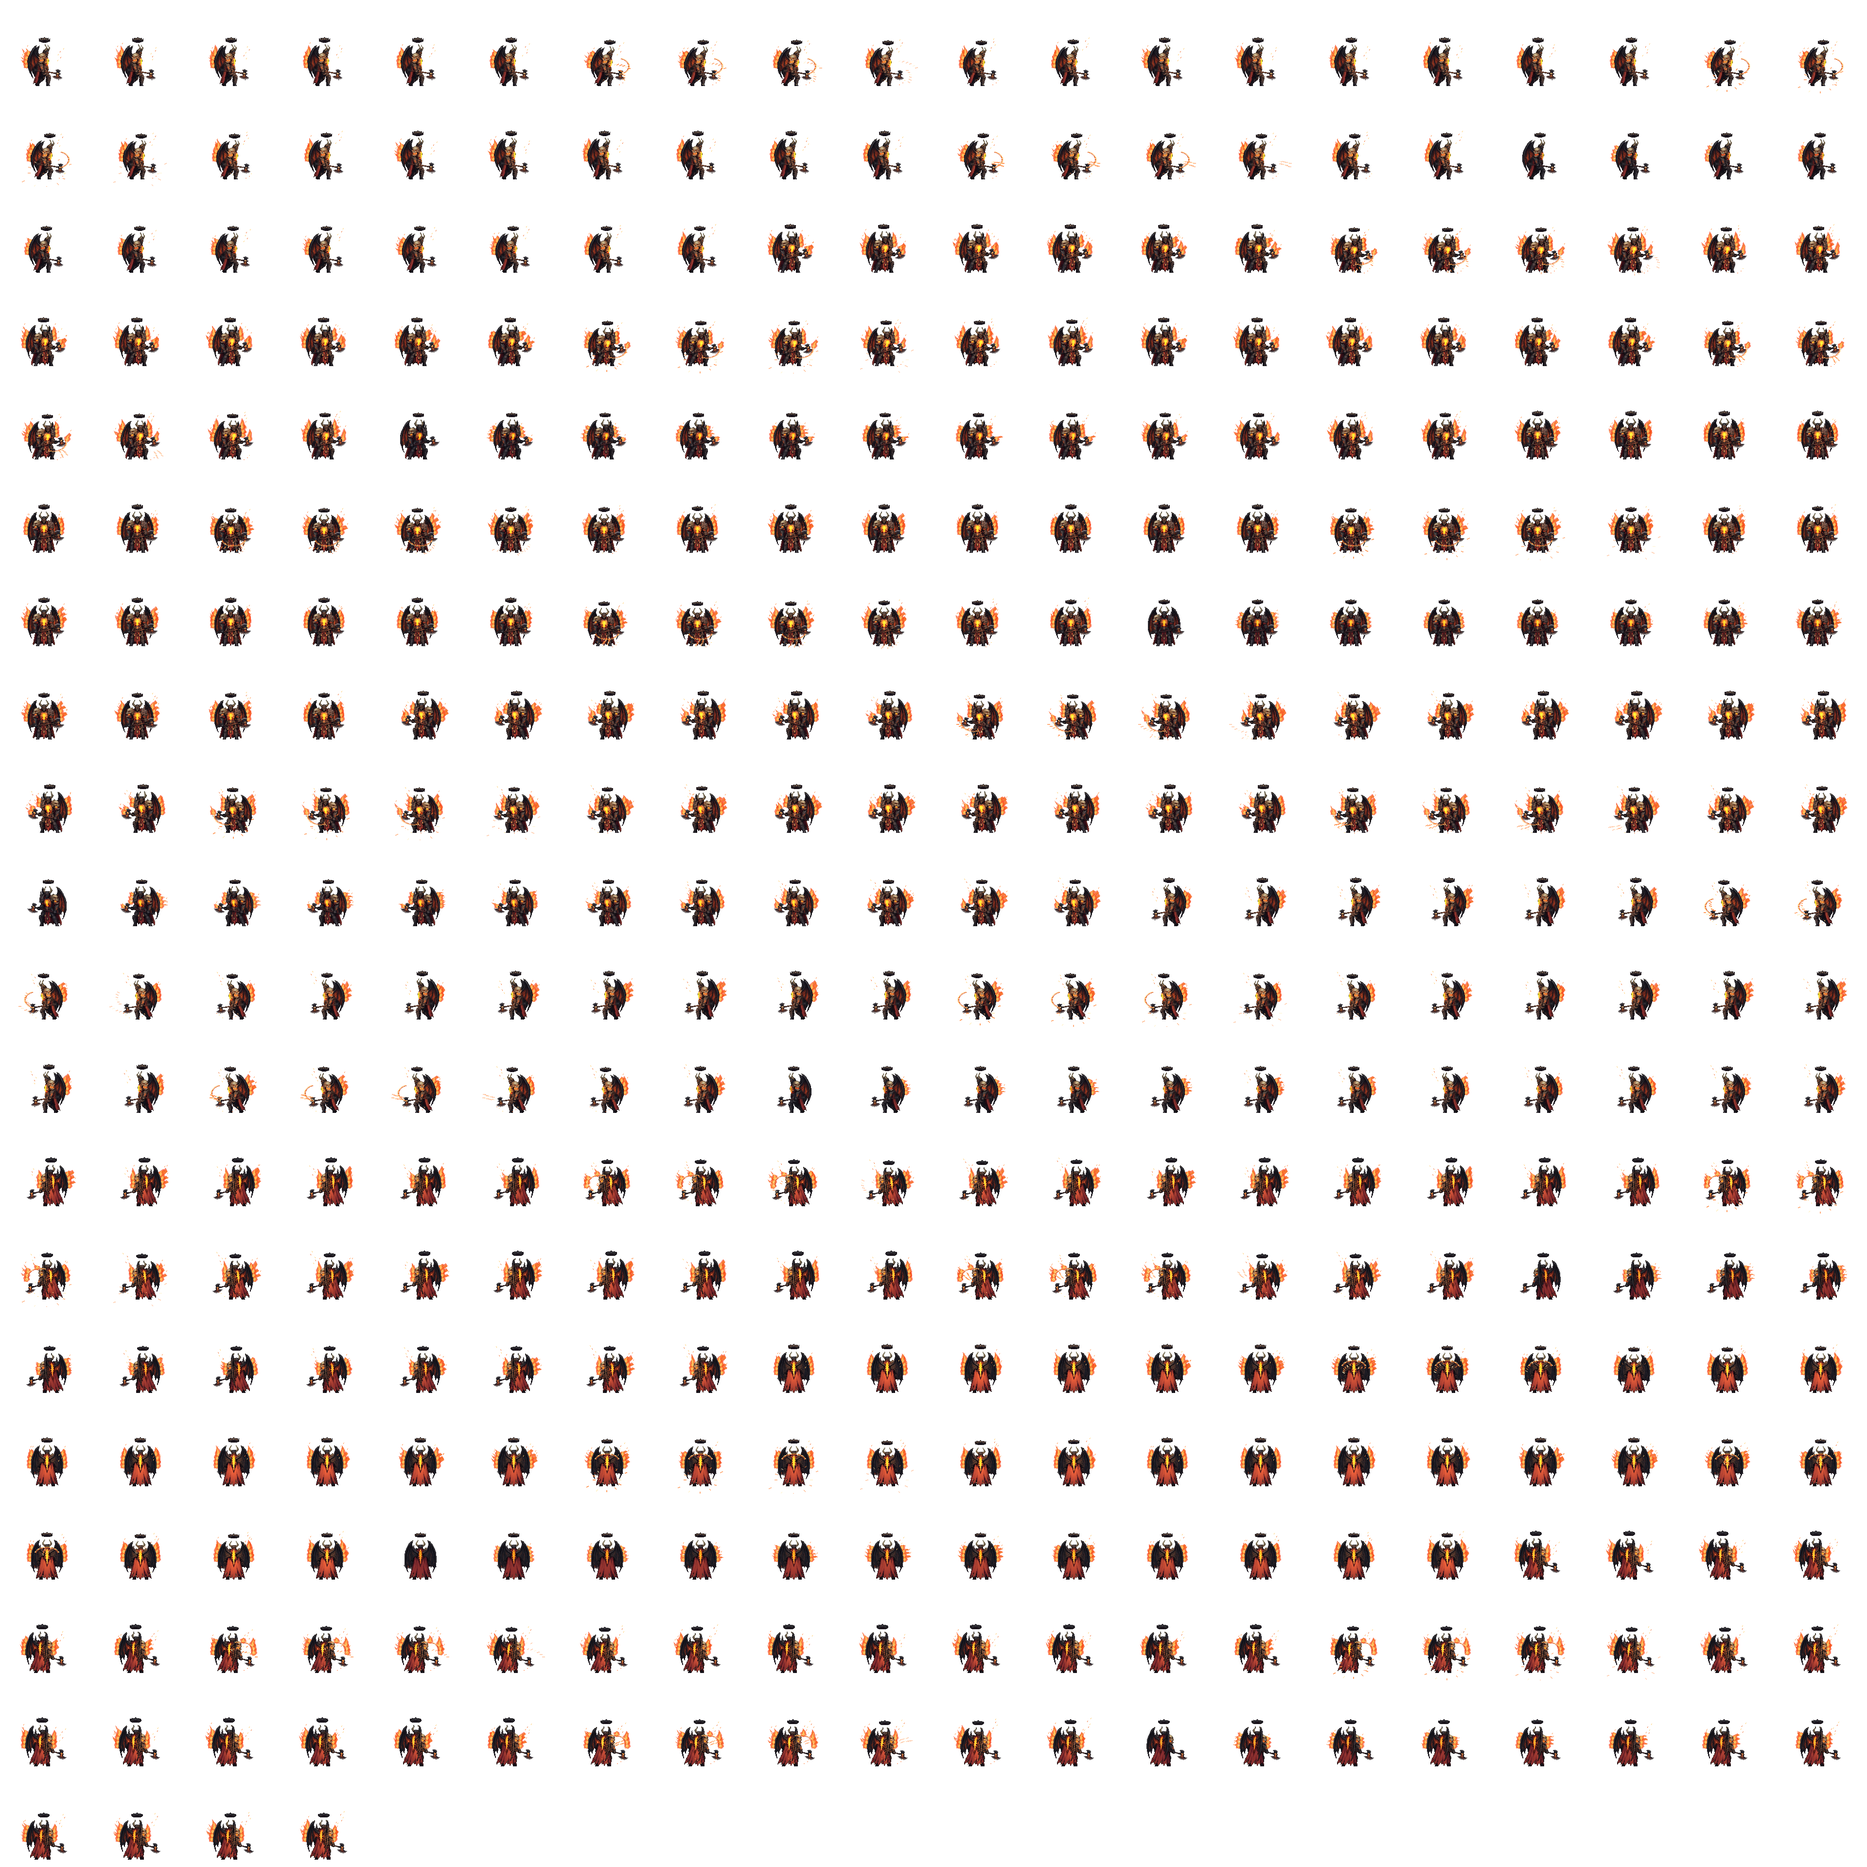
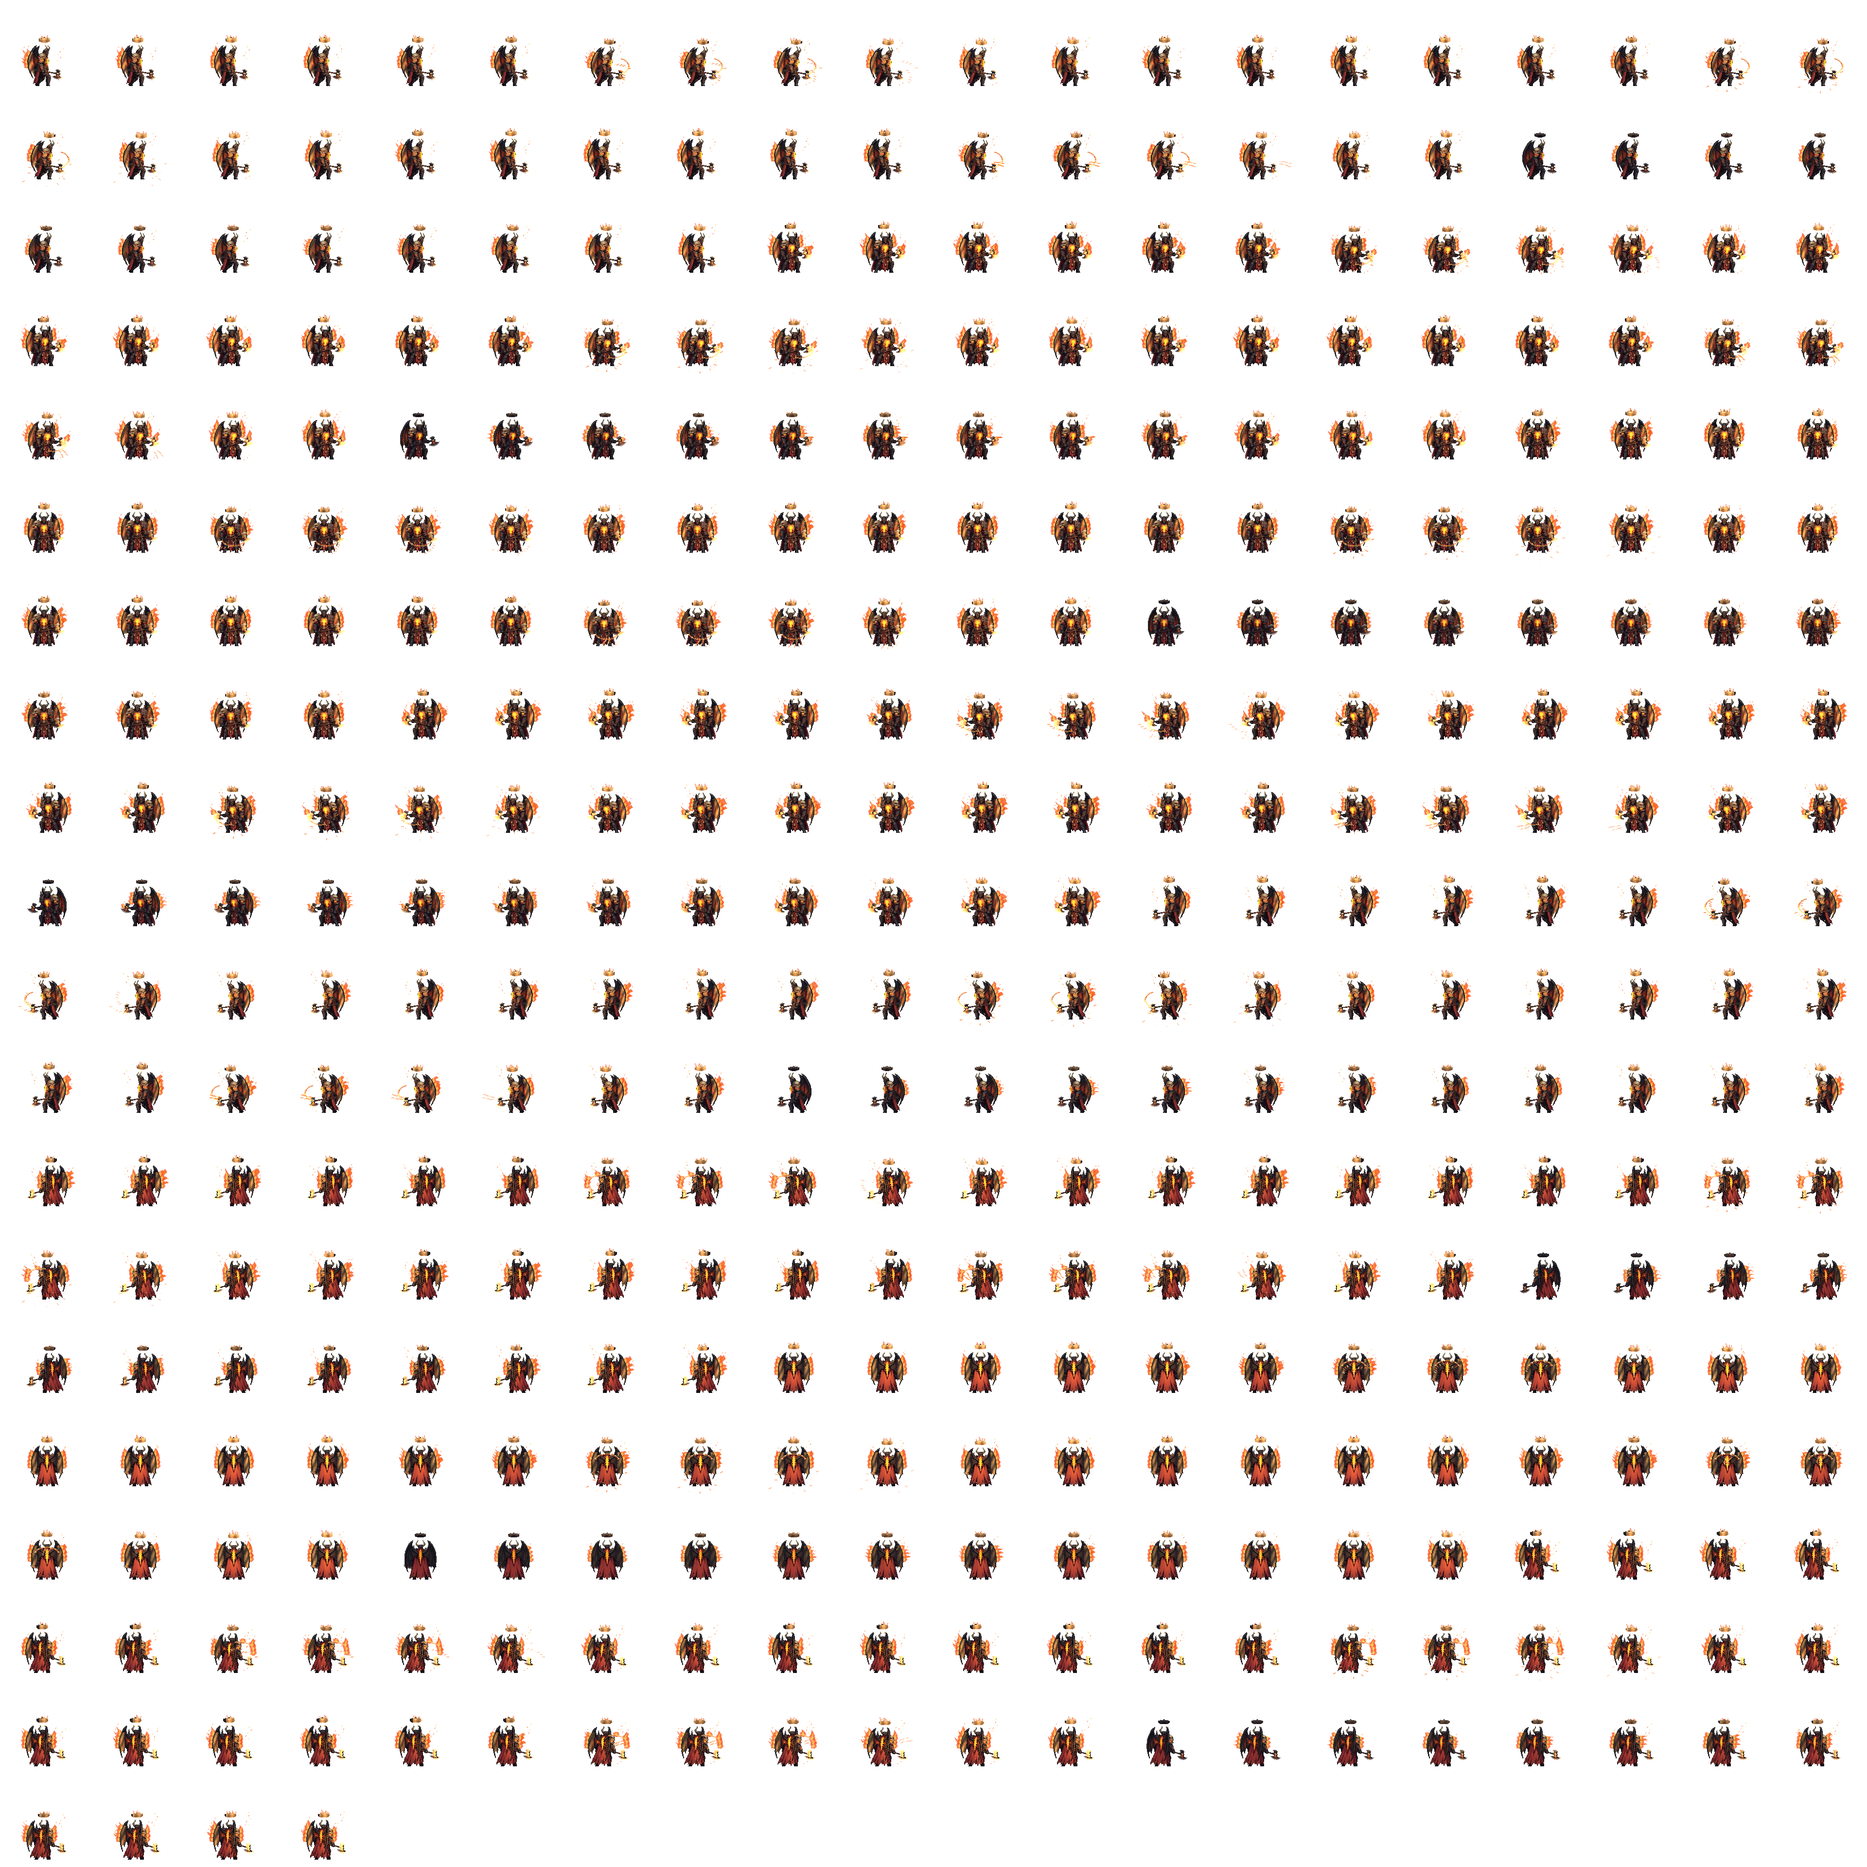
feat(combat): renforcer les flammes et les runes de Malakor

diff --git a/public/game/combat.js b/public/game/combat.js
@@ -1804,6 +1804,63 @@ export class TrainingCombat {
         this.effect.strokePath();
     }
 
+    drawMalakorAura(monster, now) {
+        const still = this.scene.motionPreference?.matches;
+        const time = still ? 0 : now;
+        const x = monster.sprite.x;
+        const y = monster.sprite.y;
+        const ignition = monster.trial?.transform && now < monster.trial.beginsAt;
+        const buildup = ignition ? (now - monster.trial.start) / (monster.trial.beginsAt - monster.trial.start) : 1;
+        const heat = Math.max(.1, Math.min(1, buildup));
+        const pulse = .5 + .5 * Math.sin(time / 230);
+        const radius = 29 + 6 * pulse;
+
+        this.effect.fillStyle(0x482025, .32 * heat).fillEllipse(x, y + 2, 124, 58);
+        this.effect.fillStyle(0xe2502d, .17 * heat).fillEllipse(x, y + 2, 92, 40);
+        this.effect.fillStyle(0xff8c42, .14 * heat).fillEllipse(x, y + 2, 62, 26);
+        this.effect.lineStyle(2, 0xc3402d, .46 * heat).strokeEllipse(x, y + 2, radius * 2 + 25, radius + 13);
+        this.effect.lineStyle(1, 0xffbb70, .7 * heat).strokeEllipse(x, y + 2, radius * 2, radius);
+
+        for (let i = 0; i < 12; i++) {
+            const angle = i * Math.PI / 6 + time / 4600;
+            const u = Math.cos(angle);
+            const v = Math.sin(angle) * .48;
+            const runeX = Math.round(x + u * (radius + 7));
+            const runeY = Math.round(y + 2 + v * (radius + 7));
+            this.effect.lineStyle(1, i % 3 ? 0xffa359 : 0xffdda1, (.48 + .2 * pulse) * heat);
+            this.effect.lineBetween(runeX, runeY, runeX + u * 5 - v * 4, runeY + v * 5 + u * 2);
+            this.effect.lineBetween(runeX + u * 4, runeY + v * 4, runeX - v * 5, runeY + u * 3);
+        }
+
+        for (let i = 0; i < 6; i++) {
+            const angle = i * Math.PI / 3 + .18;
+            let previousX = x + Math.cos(angle) * 18;
+            let previousY = y + Math.sin(angle) * 10;
+            for (let segment = 1; segment <= 4; segment++) {
+                const fork = angle + Math.sin(i + segment * 2.3) * .19;
+                const distance = (16 + segment * 11) * (.6 + .4 * heat);
+                const nextX = Math.round(x + Math.cos(fork) * distance);
+                const nextY = Math.round(y + Math.sin(fork) * distance * .53);
+                this.effect.lineStyle(3, 0x341724, .7).lineBetween(previousX, previousY, nextX, nextY);
+                this.effect.lineStyle(1, segment === 1 ? 0xffbd6b : 0xcf5034, (.78 - segment * .1) * heat)
+                    .lineBetween(previousX, previousY, nextX, nextY);
+                previousX = nextX;
+                previousY = nextY;
+            }
+        }
+
+        if (still) return;
+        for (let i = 0; i < 29; i++) {
+            const life = (time / (720 + i % 6 * 85) + i * .271) % 1;
+            const angle = i * 2.39996 + life * .54;
+            const distance = 23 + i % 7 * 5 + life * 14;
+            const px = Math.round(x + Math.cos(angle) * distance);
+            const py = Math.round(y + Math.sin(angle) * distance * .42 - life * (36 + i % 5 * 9));
+            const opacity = (1 - life) * heat;
+            this.effect.fillStyle(i % 4 ? 0xff8c46 : 0xffe6a1, opacity).fillRect(px, py, i % 3 ? 2 : 3, i % 4 ? 3 : 5);
+        }
+    }
+
     drawMalakorTrial(monster, now) {
         const { left, top, right, bottom } = monster.template.zone;
         const x = left * this.tileSize;
@@ -1840,17 +1897,7 @@ export class TrainingCombat {
         for (const monster of this.monsters) {
             if (!monster.isAlive) continue;
 
-            // Aura volcanique permanente en Phase 2 sur Malakor
-            if (monster.isBoss && monster.phase === 3 && !this.scene.motionPreference.matches) {
-                const bx = monster.sprite.x;
-                const by = monster.sprite.y - 16;
-                for (let i = 0; i < 4; i++) {
-                    const a = now / 220 + (i * Math.PI) / 2;
-                    const px = Math.round(bx + Math.cos(a) * 28);
-                    const py = Math.round(by + Math.sin(a) * 16 - ((now / 45 + i * 7) % 14));
-                    this.effect.fillStyle(i % 2 === 0 ? 0xff7b2f : 0xffe08a, 0.75).fillRect(px - 1, py - 1, 3, 3);
-                }
-            }
+            if (monster.isBoss && monster.phase === 3) this.drawMalakorAura(monster, now);
 
             if (monster.trial) this.drawMalakorTrial(monster, now);
             if (monster.echo) {

diff --git a/tools/build_malakor_animations.php b/tools/build_malakor_animations.php
@@ -8,6 +8,7 @@ const COLS = 20;
 const BASE_CELL = 128;
 const BASE_POSES = 40;
 const ACTION_POSES = 48;
+const INK = 0x180e1b;
 
 function canvas(int $width, int $height): GdImage
 {
@@ -81,6 +82,57 @@ function flame(GdImage $image, float $x, float $y, float $height, float $lean, i
     }
 }
 
+function wingEdge(GdImage $frame, int $side, int $y): ?int
+{
+    $edge = $side < 0 ? 15 : 112;
+    $limit = $side < 0 ? 55 : 72;
+    while ($side * ($edge - $limit) > 0) {
+        if ((imagecolorat($frame, $edge, $y) >> 24) <= 48) return $edge;
+        $edge -= $side;
+    }
+    return null;
+}
+
+function firelight(GdImage $frame, int $x, int $y, float $power): void
+{
+    $pixel = imagecolorat($frame, $x, $y);
+    $alpha = ($pixel >> 24) & 127;
+    if ($alpha > 80) return;
+    $r = ($pixel >> 16) & 255;
+    $g = ($pixel >> 8) & 255;
+    $b = $pixel & 255;
+    imagesetpixel($frame, $x, $y, ($alpha << 24)
+        | (min(255, $r + (int) (235 * $power)) << 16)
+        | (min(255, $g + (int) (155 * $power)) << 8)
+        | min(255, $b + (int) (64 * $power)));
+}
+
+function lightRelics(GdImage $frame, int $direction, int $step, float $heat): void
+{
+    if ($heat <= .08) return;
+    for ($y = 14; $y < 30; $y++) {
+        for ($x = 49; $x < 79; $x++) {
+            $pulse = .78 + .22 * sin($step * .5 + $x * .46);
+            firelight($frame, $x, $y, $heat * $pulse);
+        }
+    }
+    if ($direction === 6) return;
+    $side = in_array($direction, [3, 4, 5], true) ? -1 : 1;
+    for ($y = 72; $y < 102; $y++) {
+        for ($x = 19; $x < 109; $x++) {
+            $distance = $side * ($x - 64);
+            if ($distance < 23) continue;
+            $pixel = imagecolorat($frame, $x, $y);
+            $r = ($pixel >> 16) & 255;
+            $g = ($pixel >> 8) & 255;
+            $b = $pixel & 255;
+            // Warm insets and the bright original blade edge reflect the heat.
+            if ($r + $g + $b < 152 || ($g > $r * 1.04 && $b > $r * 1.11)) continue;
+            firelight($frame, $x, $y, $heat * min(1, ($distance - 20) / 13));
+        }
+    }
+}
+
 function drawWingFire(GdImage $image, GdImage $frame, int $direction, int $step, float $heat, int $dy): void
 {
     if ($heat <= .08) return;
@@ -89,19 +141,27 @@ function drawWingFire(GdImage $image, GdImage $frame, int $direction, int $step,
         4 => [1],
         default => [-1, 1],
     };
-    // Attach each flame to the actual opaque wing edge of this source frame.
     foreach ($sides as $side) {
+        for ($y = 43; $y <= 93; $y++) {
+            $edge = wingEdge($frame, $side, $y);
+            if ($edge === null) continue;
+            $width = (int) round(6 + 5 * sin(($y - 42) * M_PI / 54));
+            for ($depth = 2; $depth <= $width; $depth++) {
+                $x = $edge - $side * $depth;
+                if ($side * ($x - 64) < 15) break;
+                $vein = sin($y * .25 + $x * .53 + $side * .9) * .5 + .5;
+                $flare = sin($step * .53 + $y * .11) * .14 + .86;
+                $spread = 1 - abs($depth - $width * .45) / max(4, $width);
+                firelight($frame, $x, $y, $heat * $flare * $spread * (.34 + .68 * $vein));
+            }
+        }
         for ($index = 3; $index >= 0; $index--) {
             $y = 47 + $index * 8;
-            $start = $side < 0 ? 15 : 112;
-            $edge = $start;
-            while (($side < 0 ? $edge < 55 : $edge > 72) && (imagecolorat($frame, $edge, $y) >> 24) > 48) {
-                $edge -= $side;
-            }
-            if ($side < 0 ? $edge >= 55 : $edge <= 72) continue;
+            $edge = wingEdge($frame, $side, $y);
+            if ($edge === null) continue;
             $variation = sin($step * .69 + $index * 1.87 + $direction);
-            $height = max(3, (14 + $variation * 5 + ($index % 2) * 3) * $heat);
-            flame($image, 32 + $edge + $side * 3, 64 + $y + $dy, $height, $side * (3 + $index), $step);
+            $height = max(3, (12 + $variation * 5 + ($index % 2) * 3) * $heat);
+            flame($image, 32 + $edge + $side * 2, 64 + $y + $dy, $height, $side * (3 + $index), $step);
         }
     }
 }
@@ -112,6 +172,20 @@ function drawPose(GdImage $source, int $direction, int $pose, int $step, float $
     $frame = sourcePose($source, $direction, $pose);
     drawWingFire($image, $frame, $direction, $step, $heat, $dy);
     lightArmor($frame, $direction, $heat);
+    lightRelics($frame, $direction, $step, $heat);
+    if ($heat > .28) {
+        for ($x = 52; $x <= 76; $x += 4) {
+            for ($y = 14; $y < 26; $y++) {
+                if ((imagecolorat($frame, $x, $y) >> 24) > 65) continue;
+                $height = (3 + ($x + $step * 3) % 5) * $heat;
+                line($image, 32 + $x, 66 + $y + $dy,
+                    32 + $x + sin($x + $step) * 2, 64 + $y + $dy - $height, 0x3bf15c27, 2);
+                line($image, 32 + $x, 65 + $y + $dy, 33 + $x,
+                    64 + $y + $dy - $height * .55, 0xffb35e);
+                break;
+            }
+        }
+    }
     imagecopy($image, $frame, 32, 64 + $dy, 0, 0, BASE_CELL, BASE_CELL);
     // Light on the edge stays close to the original contour.
     if ($heat >= .45) {

diff --git a/docs/FRONTEND.md b/docs/FRONTEND.md
@@ -28,7 +28,7 @@ Les archives PixelLab actuelles proposent uniquement « Frappe à la lanterne »
 
 Les 59 créatures peuplant la carte se répartissent sur des secteurs élargis : 7 sangliers N.1–5 dans la clairière, 6 squelettes N.5–10 au cimetière, 5 dragons N.10–20 dans les montagnes, 16 démons (6 diablotins, 5 molosses et 5 gardes N.21–35) dans les trois secteurs des Terres dévastées, le Boss de palier niveau 40 **Malakor, Seigneur de la Brèche** au Trône d’Obsidienne (`128 × 128 px`, trois phases télégraphiées et jauge avec seuils de phase) et huit créatures dans chacun des trois secteurs N.41–60. Les variantes teintent les atlases du molosse et du garde et emploient les mêmes télégraphies circulaires et linéaires que Malakor. Chaque espèce standard dispose d’au moins 10 points de patrouille.
 
-Les sept atlas d’origine de `public/game/val-des-saules/monsters/` contiennent huit blocs de deux lignes, dans l’ordre est, sud-est, sud, sud-ouest, ouest, nord-ouest, nord et nord-est. Chaque bloc contient un repos, 36 images de marche et trois poses d’attaque. `monster-art.js` donne la taille de découpe, l’emprise visuelle et la distance d’un cycle par espèce (`tools/build_boss_spritesheet.php` assemble celle de Malakor en `128 × 128`). La distance parcourue règle le trot du sanglier, la marche saccadée du squelette, les appuis du dragon, les bonds du diablotin, le galop du molosse, la marche lourde du garde et la foulée colossale du boss. Les images sont ancrées aux pieds pour que le tri en profondeur suive le sol. Malakor conserve ses poses d’origine. Les atlas d’effets ont des cellules de 192 × 192 px pour laisser de la place aux flammes et aux traînées. Chaque technique et la transformation rythment ces effets sur 12 images par direction. Le générateur GD se lance avec `php -d memory_limit=384M tools/build_malakor_animations.php`.
+Les sept atlas d’origine de `public/game/val-des-saules/monsters/` contiennent huit blocs de deux lignes, dans l’ordre est, sud-est, sud, sud-ouest, ouest, nord-ouest, nord et nord-est. Chaque bloc contient un repos, 36 images de marche et trois poses d’attaque. `monster-art.js` donne la taille de découpe, l’emprise visuelle et la distance d’un cycle par espèce (`tools/build_boss_spritesheet.php` assemble celle de Malakor en `128 × 128`). La distance parcourue règle le trot du sanglier, la marche saccadée du squelette, les appuis du dragon, les bonds du diablotin, le galop du molosse, la marche lourde du garde et la foulée colossale du boss. Les images sont ancrées aux pieds pour que le tri en profondeur suive le sol. Malakor conserve ses poses d’origine. Les atlas d’effets ont des cellules de 192 × 192 px pour laisser de la place aux flammes et aux traînées. Chaque technique et la transformation rythment ces effets sur 12 images par direction. En Rage, la lumière suit le bord des ailes, l’armure, la lame et le halo. Phaser dessine autour de Malakor un cercle runique, des fissures et des braises. Avec la préférence de mouvement réduit, le cercle et les fissures restent fixes et les braises sont masquées. Le générateur GD se lance avec `php -d memory_limit=384M tools/build_malakor_animations.php`.
 
 `python tools/monster_walk.py <dossier-des-atlas> <dossier-de-sortie> --preview <dossier-d-apercu>` reconstruit les foulées depuis les poses de repos avec Pillow et NumPy. Le script découpe cuisse, tibia et pied, puis calcule la flexion du genou entre l’appui, le décollage et la retombée. Il conserve les images de repos et d’attaque de l’atlas source. Le dossier d’aperçu est facultatif.
 
